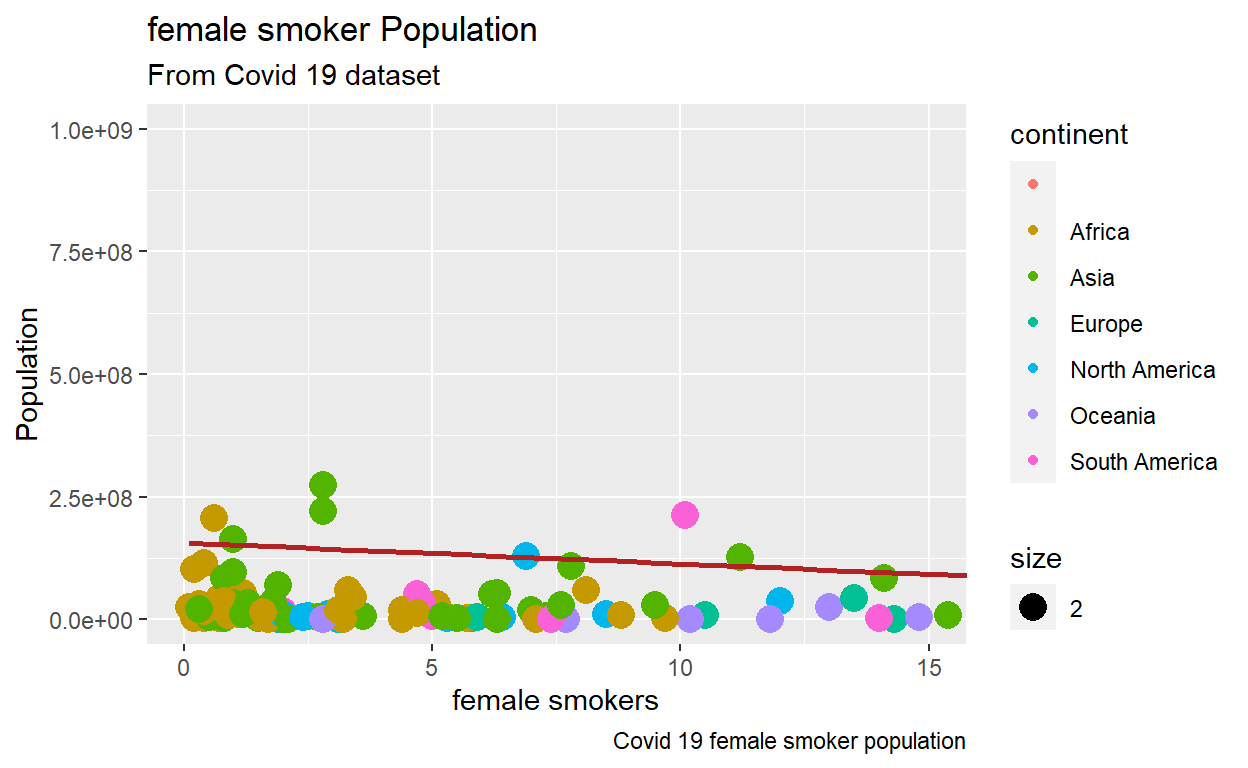
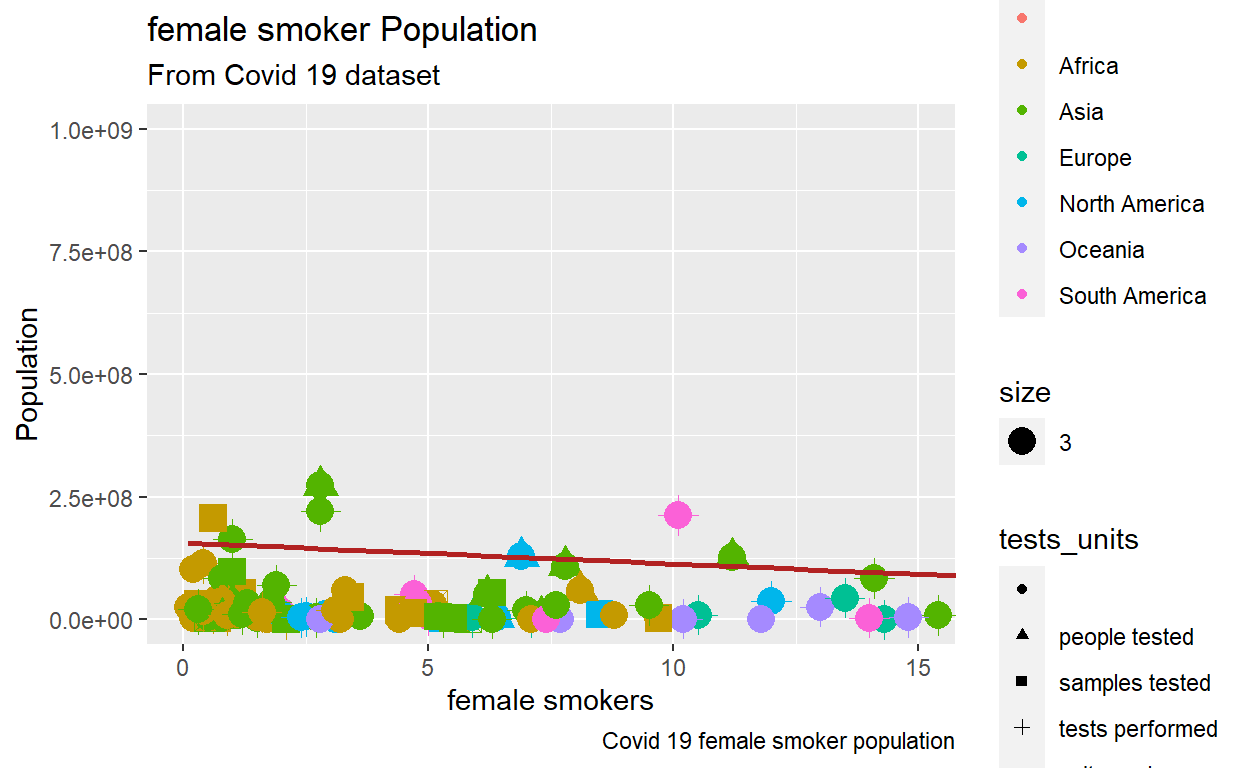
"latest update"

diff --git a/_posts/2021-06-03-covid19/covid19.html b/_posts/2021-06-03-covid19/covid19.html
@@ -1542,19 +1542,19 @@ code span.wa { color: #5e5e5e; font-style: italic; } /* Warning */
 <h1 id="female-smoker-population-percent">Female smoker population percent</h1>
 <p>The following table shows that females</p>
 <div class="layout-chunk" data-layout="l-body">
-<pre><code># A tibble: 68,301 x 3
-   female_smokers population continent
-            &lt;dbl&gt;      &lt;dbl&gt; &lt;chr&gt;    
- 1            7.1    2877800 Europe   
- 2            7.1    2877800 Europe   
- 3            7.1    2877800 Europe   
- 4            7.1    2877800 Europe   
- 5            7.1    2877800 Europe   
- 6            7.1    2877800 Europe   
- 7            7.1    2877800 Europe   
- 8            7.1    2877800 Europe   
- 9            7.1    2877800 Europe   
-10            7.1    2877800 Europe   
+<pre><code># A tibble: 68,301 x 4
+   female_smokers population continent tests_units    
+            &lt;dbl&gt;      &lt;dbl&gt; &lt;chr&gt;     &lt;chr&gt;          
+ 1            7.1    2877800 Europe    tests performed
+ 2            7.1    2877800 Europe    tests performed
+ 3            7.1    2877800 Europe    tests performed
+ 4            7.1    2877800 Europe    tests performed
+ 5            7.1    2877800 Europe    tests performed
+ 6            7.1    2877800 Europe    tests performed
+ 7            7.1    2877800 Europe    tests performed
+ 8            7.1    2877800 Europe    tests performed
+ 9            7.1    2877800 Europe    tests performed
+10            7.1    2877800 Europe    tests performed
 # ... with 68,291 more rows</code></pre>
 <pre><code> female_smokers    population         continent        
  Min.   : 0.10   Min.   :1.083e+04   Length:68301      
@@ -1562,7 +1562,14 @@ code span.wa { color: #5e5e5e; font-style: italic; } /* Warning */
  Median : 6.30   Median :1.014e+07   Mode  :character  
  Mean   :10.56   Mean   :1.114e+08                     
  3rd Qu.:19.30   3rd Qu.:3.785e+07                     
- Max.   :44.00   Max.   :7.795e+09                     </code></pre>
+ Max.   :44.00   Max.   :7.795e+09                     
+ tests_units       
+ Length:68301      
+ Class :character  
+ Mode  :character  
+                   
+                   
+                   </code></pre>
 </div>
 <p>The following code will be for scatterplot</p>
 <div class="layout-chunk" data-layout="l-body">

diff --git a/docs/posts/2021-06-03-covid19/index.html b/docs/posts/2021-06-03-covid19/index.html
@@ -2162,19 +2162,19 @@ document.addEventListener('DOMContentLoaded', function() {
 <h1 id="female-smoker-population-percent">Female smoker population percent</h1>
 <p>The following table shows that females</p>
 <div class="layout-chunk" data-layout="l-body">
-<pre><code># A tibble: 68,301 x 3
-   female_smokers population continent
-            &lt;dbl&gt;      &lt;dbl&gt; &lt;chr&gt;    
- 1            7.1    2877800 Europe   
- 2            7.1    2877800 Europe   
- 3            7.1    2877800 Europe   
- 4            7.1    2877800 Europe   
- 5            7.1    2877800 Europe   
- 6            7.1    2877800 Europe   
- 7            7.1    2877800 Europe   
- 8            7.1    2877800 Europe   
- 9            7.1    2877800 Europe   
-10            7.1    2877800 Europe   
+<pre><code># A tibble: 68,301 x 4
+   female_smokers population continent tests_units    
+            &lt;dbl&gt;      &lt;dbl&gt; &lt;chr&gt;     &lt;chr&gt;          
+ 1            7.1    2877800 Europe    tests performed
+ 2            7.1    2877800 Europe    tests performed
+ 3            7.1    2877800 Europe    tests performed
+ 4            7.1    2877800 Europe    tests performed
+ 5            7.1    2877800 Europe    tests performed
+ 6            7.1    2877800 Europe    tests performed
+ 7            7.1    2877800 Europe    tests performed
+ 8            7.1    2877800 Europe    tests performed
+ 9            7.1    2877800 Europe    tests performed
+10            7.1    2877800 Europe    tests performed
 # ... with 68,291 more rows</code></pre>
 <pre><code> female_smokers    population         continent        
  Min.   : 0.10   Min.   :1.083e+04   Length:68301      
@@ -2182,7 +2182,14 @@ document.addEventListener('DOMContentLoaded', function() {
  Median : 6.30   Median :1.014e+07   Mode  :character  
  Mean   :10.56   Mean   :1.114e+08                     
  3rd Qu.:19.30   3rd Qu.:3.785e+07                     
- Max.   :44.00   Max.   :7.795e+09                     </code></pre>
+ Max.   :44.00   Max.   :7.795e+09                     
+ tests_units       
+ Length:68301      
+ Class :character  
+ Mode  :character  
+                   
+                   
+                   </code></pre>
 </div>
 <p>The following code will be for scatterplot</p>
 <div class="layout-chunk" data-layout="l-body">

diff --git a/docs/index.html b/docs/index.html
@@ -2295,7 +2295,7 @@ function init_posts_list() {
 <a href="#">More articles &raquo;</a>
 </div>
 </div>
-<!--/radix_placeholder_article_listing-->
+<!--/radix_placeholder_article_listing-->
 
 <div class="d-title">
 <h1>Demetrio Munoz</h1>
